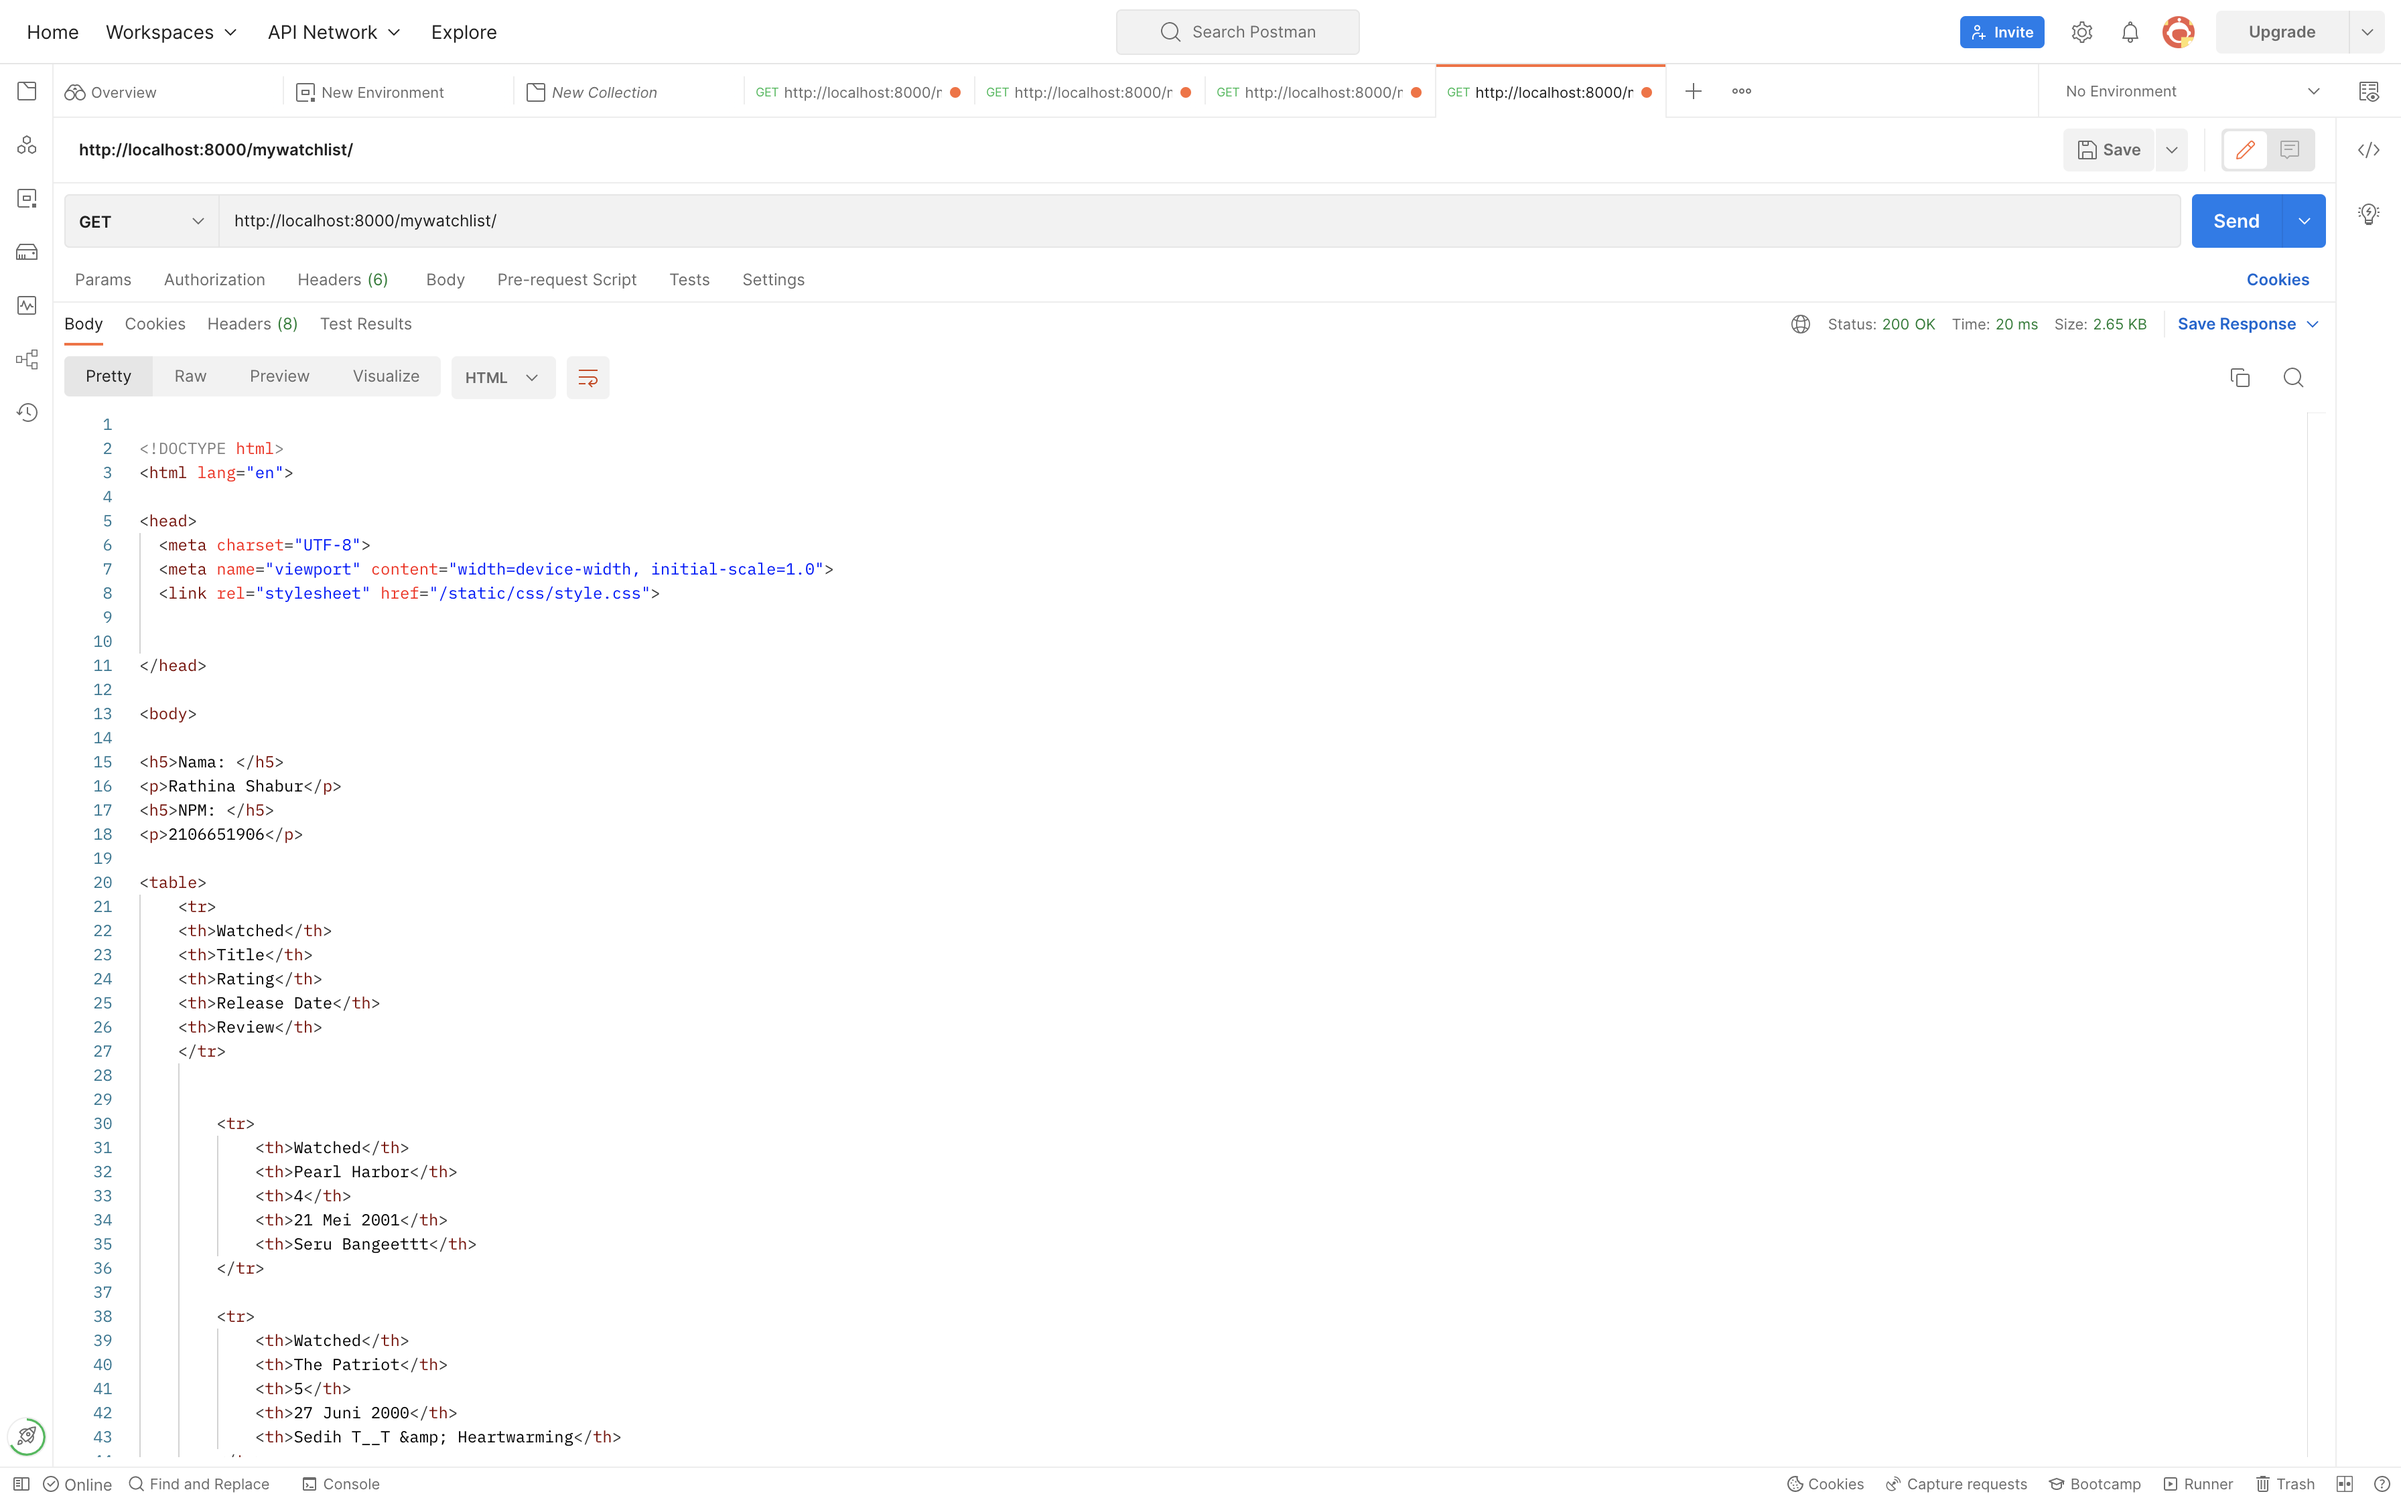
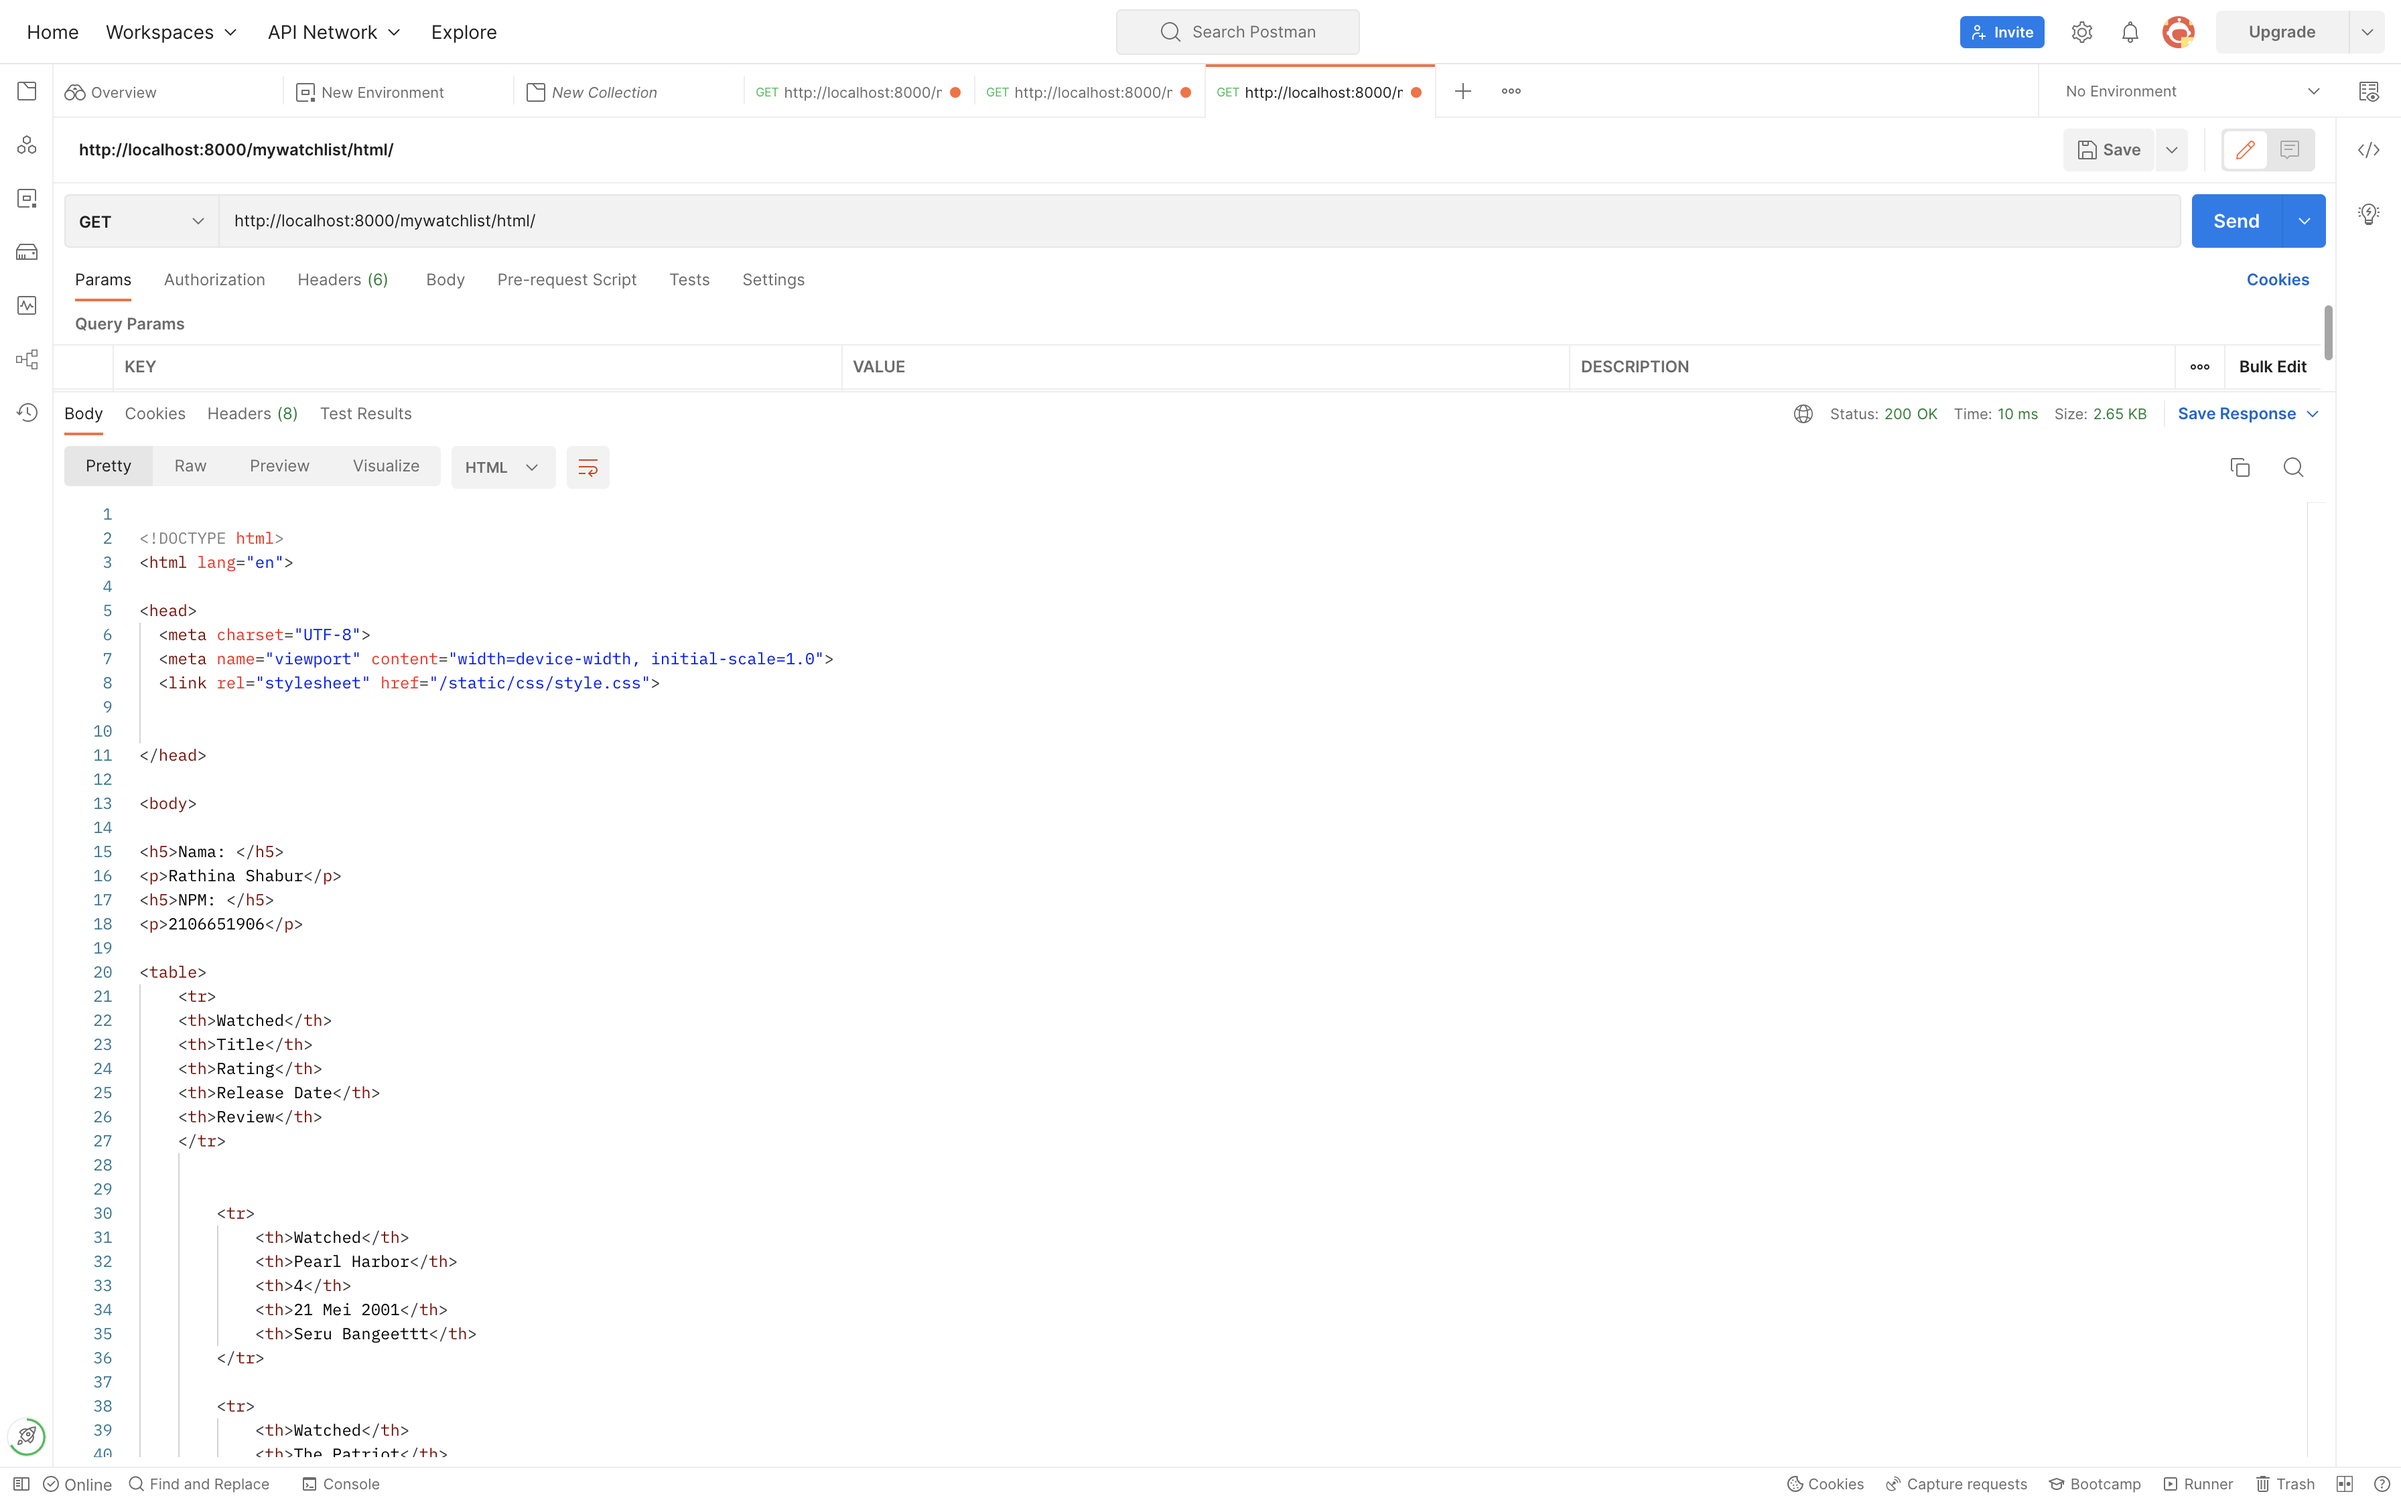
10.58

diff --git a/mywatchlist/migrations/0002_alter_watchlistku_release_date.py b/mywatchlist/migrations/0002_alter_watchlistku_release_date.py
@@ -1,0 +1,18 @@
+# Generated by Django 4.1 on 2022-09-22 03:53
+
+from django.db import migrations, models
+
+
+class Migration(migrations.Migration):
+
+    dependencies = [
+        ('mywatchlist', '0001_initial'),
+    ]
+
+    operations = [
+        migrations.AlterField(
+            model_name='watchlistku',
+            name='release_date',
+            field=models.TextField(),
+        ),
+    ]

diff --git a/mywatchlist/urls.py b/mywatchlist/urls.py
@@ -6,7 +6,7 @@ from mywatchlist.views import show_json
 app_name = 'mywatchlist'
 
 urlpatterns = [
-    path('', show_mywatchlist, name='show_mywatchlist'),
+    path('html/', show_mywatchlist, name='show_mywatchlist'),
     path('xml/', show_xml, name='show_xml'),
     path('json/', show_json, name='show_json'),
 ]
